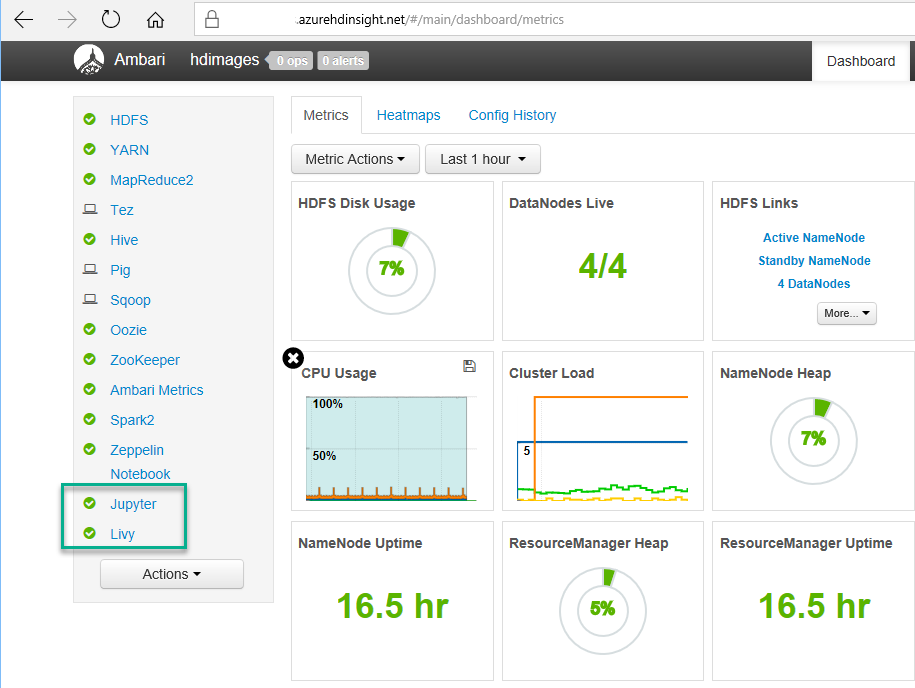
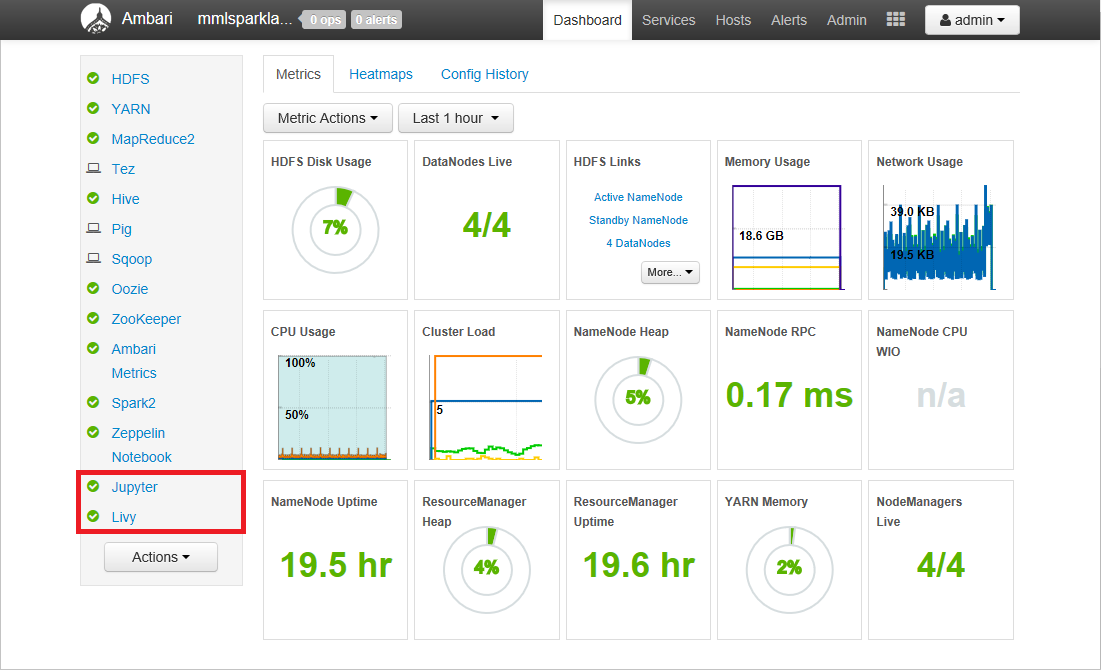
Updated Exercise 2 in Lab 3 in MMLSpark series

diff --git a/400 - Image Classification with MMLSpark/3 - Predict/readme.md b/400 - Image Classification with MMLSpark/3 - Predict/readme.md
@@ -110,23 +110,29 @@ In this exercise, you will run a script to install MMLSpark on the HDInsight clu
 
 	This script installs the CPU-only version of CNTK. Be sure to check the **Head** and **Worker** boxes as you did in the previous step to install CNTK on all the nodes in the cluster.
 
-	![Installing MMLSpark on the cluster](Images/submit-script-action-2.png)
+	![Installing CNTK on the cluster](Images/submit-script-action-2.png)
 
-	_Installing MMLSpark on the cluster_
+	_Installing CNTK on the cluster_
 
-1. Wait for the script action to finish, and confirm that it completed successfully. (This one, too, usually takes about 5 minutes to run.)
+1. Wait for the script action to finish, and confirm that it completed successfully. (This one, too, usually takes about 5 minutes to run.) Here's what you'll see in the blade for the cluster when both scripts have completed:
 
+	![Script actions completed](Images/scripts-completed.png)
 
+	_Script actions completed_
 
+1. The CNTK install script stops and starts the cluster's [Jupyter](http://jupyter.org/) and [Livy](https://livy.incubator.apache.org/) services. To make sure these services are up and running, go to the following URL in your browser, substituting your cluster name for CLUSTER_NAME:
 
+	```
+	https://CLUSTER_NAME.azurehdinsight.net
+	```
 
-1. The CNTK install script stops and starts the Jupyter and Livy services.  You will need those services running before proceeding, and sometimes it's a few moments after the interface shows that the script has completed.  To see the status of these services (and to start them manually if necessary), naviagate to <HDINSIGHT CLUSTERNAME>.azurehdinsight.net to see the status.  The dashboard should look similar to this screenshot.
+1. When prompted, log in with the user name and password you specified in Exercise 1, Step 3. When the cluster's dashboard appears, make sure green check boxes appear next to Jupyter and Livy, as shown below.
 
-	![tk](Images/ambari.png)
+	![Using Ambari to monitor the cluster status](Images/ambari.png)
 
-	_Monitoring the HDInsight Spark cluster using Ambari_
+	_Using Ambari to monitor the cluster status_
 
-In this section, we used the script actions to customize the HDInsight Spark cluster.  Having performed this task, we are ready to run Spark to analyze our imaages with CNTK deep learning.
+If Jupyter and Livy aren't checked, wait until they are. The cluster has now been provisioned and configured with the software you need. The next step is to use it to build a machine-learning model.
 
 <a name="Exercise3"></a>
 ## Exercise 3: Use a Jupyter notebook to run Transfer Learning ##
